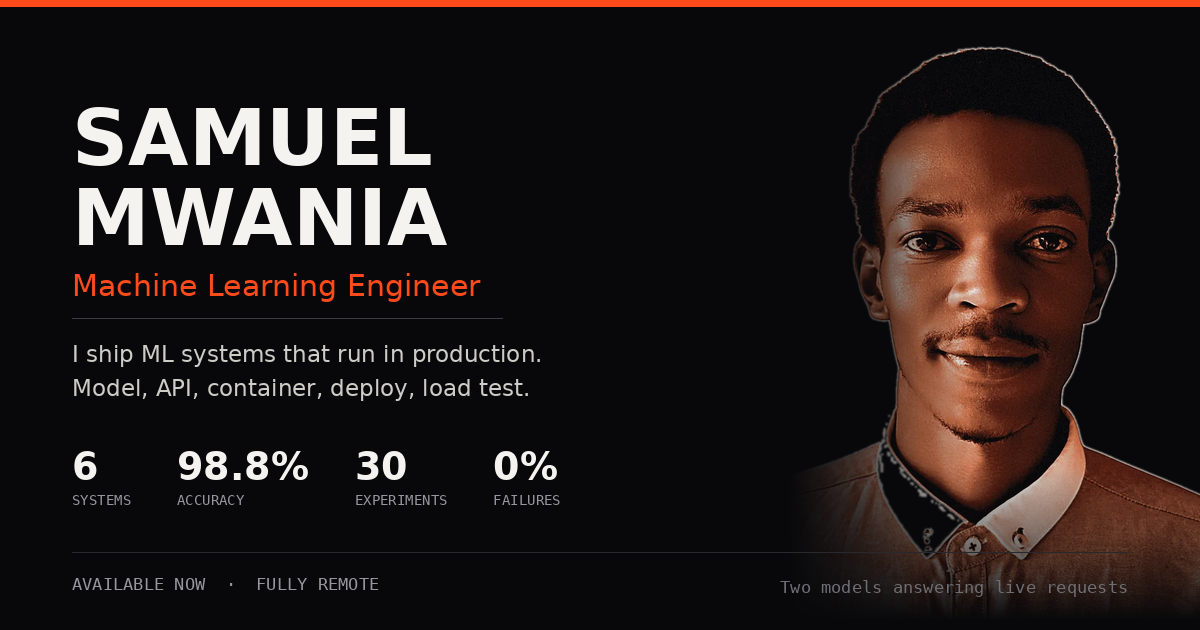
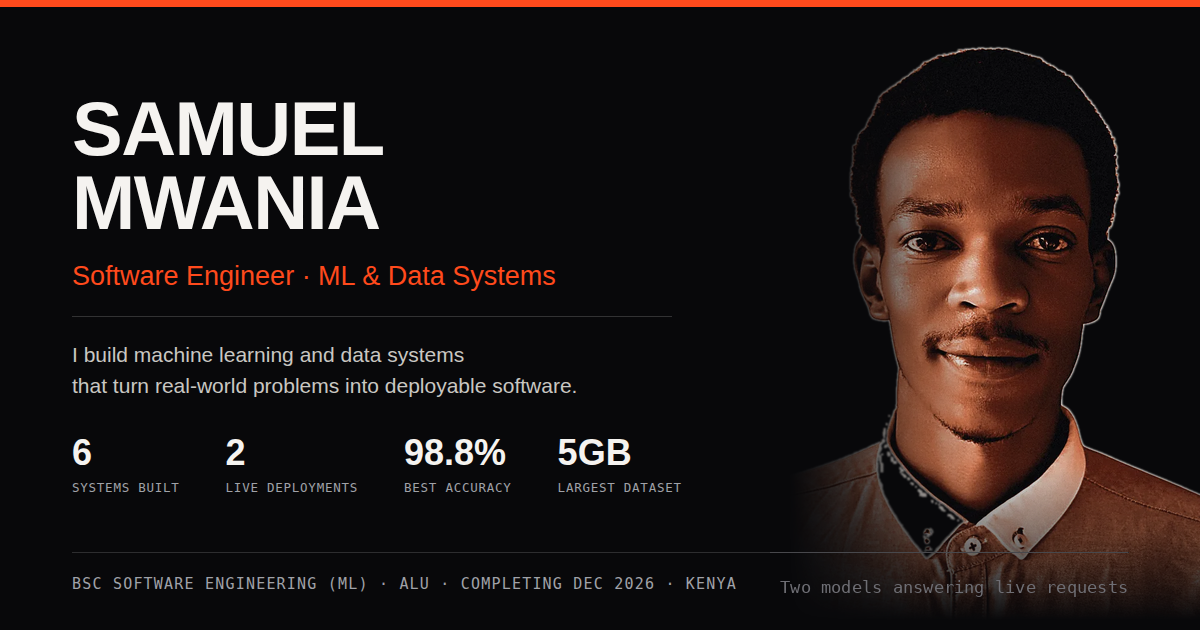
Capstone research details, degree dates and social preview
Research section follows the capstone proposal. ALU dates set to January 2024 to December 2026, graduation ceremony June 2027, full-time availability from January 2027. Social preview image updated.

diff --git a/index.html b/index.html
@@ -22,7 +22,7 @@
 <meta property="og:image:alt" content="Samuel Mwania, Software Engineer, Machine Learning and Data Systems">
 <meta name="twitter:image" content="https://www.mwaaniasam.com/og-image.png">
 <link rel="canonical" href="https://www.mwaaniasam.com/">
-<meta name="description" content="Samuel Mwania. Software engineer specialising in machine learning and data systems. BSc Software Engineering (Machine Learning), African Leadership University, graduating November 2026. Six systems built, two answering live requests in production. Based in Kenya.">
+<meta name="description" content="Samuel Mwania. Software engineer specialising in machine learning and data systems. BSc Software Engineering (Machine Learning), African Leadership University, completing December 2026. Six systems built, two answering live requests in production. Based in Kenya.">
 <link rel="preconnect" href="https://fonts.googleapis.com">
 <link rel="preconnect" href="https://fonts.gstatic.com" crossorigin>
 <link href="https://fonts.googleapis.com/css2?family=Archivo:wght@400;500;600;700;800&family=JetBrains+Mono:wght@400;500&display=swap" rel="stylesheet">
@@ -411,7 +411,7 @@ footer{border-top:1px solid var(--line);padding:30px 0 44px;display:flex;justify
 <div class="wrap hero" id="top">
   <div>
     <div class="eyebrow reveal">
-      <span class="status"><span class="sq"></span><span class="lbl" style="color:var(--accent)">Graduating Nov 2026 &middot; Open to opportunities</span></span>
+      <span class="status"><span class="sq"></span><span class="lbl" style="color:var(--accent)">Completing Dec 2026 &middot; Open to opportunities</span></span>
       <span class="lbl">Internships &middot; Graduate roles &middot; Research &middot; Full-time</span>
     </div>
     <h1 class="nm" id="bigname"><span class="ln"><span>Samuel</span></span><span class="ln"><span>Mwania</span></span></h1>
@@ -421,8 +421,8 @@ footer{border-top:1px solid var(--line);padding:30px 0 44px;display:flex;justify
     </div>
     <p class="lede reveal">I ship machine learning systems that run in production. I build machine learning and data systems that turn real-world problems into deployable software: model, API, container, deployment, load test, retraining path. Six built, two answering live requests right now, and you can call one of them from this page.</p>
     <ul class="facts reveal">
-      <li>BSc Software Engineering (Machine Learning) &middot; African Leadership University &middot; Graduating November 2026</li>
-      <li>Available for internships and project-based work now &middot; Full-time from December 2026</li>
+      <li>BSc Software Engineering (Machine Learning) &middot; African Leadership University &middot; Completing December 2026 &middot; Graduation June 2027</li>
+      <li>Available for internships and project-based work now &middot; Full-time from January 2027</li>
       <li>Based in Kenya &middot; Building AI, data and software systems for African and global problems</li>
     </ul>
     <div class="cta reveal">
@@ -496,7 +496,7 @@ footer{border-top:1px solid var(--line);padding:30px 0 44px;display:flex;justify
       <p class="body">I am a software engineer specialising in machine learning and data systems. I take a problem from raw data through to a running service: training, evaluation against a named baseline, an API with real validation, a container that behaves identically on any machine, a deployment, load testing, and a retraining path so the model does not quietly decay.</p>
       <p class="body"><strong style="color:var(--text)">Evidence over claims.</strong> Every project below links to its source code and documentation, every model is reported against a stated baseline, and two projects link to a live deployment you can call yourself. Nothing on this page is a claim you have to take on faith.</p>
       <p class="body">My work spans machine learning, backend engineering, data engineering and production systems. My current research applies graph methods to Kenyan public procurement data, and I am most interested in problems where software meets financial systems, public institutions and development.</p>
-      <p class="body">I am finishing a BSc in Software Engineering with a machine learning specialisation at African Leadership University, graduating in November 2026. I am open to internships, graduate roles, research opportunities, contract work and full-time roles. I am available for internships and project-based work now, and for full-time employment from December 2026. I am based in Kenya, work remotely, and am open to international relocation and employer-sponsored opportunities where available.</p>
+      <p class="body">I am finishing a BSc in Software Engineering with a machine learning specialisation at African Leadership University. I complete the degree in December 2026, and the graduation ceremony is in June 2027. I am open to internships, graduate roles, research opportunities, contract work and full-time roles. I am available for internships and project-based work now, and for full-time employment from January 2027. I am based in Kenya, work remotely, and am open to international relocation and employer-sponsored opportunities where available.</p>
 
       <div class="prin">
         <div><span class="ix">01</span><h5>I measure against a baseline</h5><p>A metric with nothing to compare it to is decoration. Every model here is scored against a stated alternative, so the number means something.</p></div>
@@ -525,17 +525,22 @@ footer{border-top:1px solid var(--line);padding:30px 0 44px;display:flex;justify
       <p class="body">The same discipline runs through the engineering work: state the question, name the baseline, report what the evidence supports, and write down what it does not.</p>
 
       <div class="rcard reveal" style="margin-top:30px">
-        <span class="rstat">In progress &middot; Capstone 2026</span>
-        <h3>Detecting Concealed Supplier Relationships in Kenyan Public Procurement</h3>
+        <span class="rstat">In progress &middot; Capstone, Sept &ndash; Nov 2026</span>
+        <h3>Uncovering Hidden Supplier Links in Kenyan Public Procurement: A Graph-Based Machine Learning Approach</h3>
         <div class="lbl">Research project &middot; Graph Machine Learning &middot; Kenya</div>
         <dl class="case" style="margin:22px 0 0">
-          <dt>Problem</dt><dd>Relationships between suppliers, such as shared ownership, are often not visible in procurement records viewed one tender at a time.</dd>
-          <dt>Question</dt><dd>Can a graph representation of procurement and ownership data surface supplier relationships that tabular analysis misses?</dd>
-          <dt>Approach</dt><dd>Graph construction, entity resolution and graph representation learning, evaluated against simpler baselines and against how the output would fit a professional review workflow.</dd>
-          <dt>Status</dt><dd>Proposal stage. Data, graph construction, models, evaluation, results and limitations will be published here as the work is done, including anything that does not work.</dd>
+          <dt>Problem</dt><dd>Supplier screening compares a bidder's registered name against published debarment and sanctions lists. It fails when a debarred party returns through a related company with an unrelated name. In 2021 the African Development Bank debarred a Kenyan firm alongside five affiliates whose names shared nothing with the parent; they were found only by tracing common officers, and a name check would have passed all five.</dd>
+          <dt>Questions</dt><dd>Can relational structure in public procurement and ownership records identify supplier exposure that name-based screening does not detect? Do learned graph representations, mostly validated on synthetic data, stay effective on a real Kenyan graph, and if not, which properties of the data explain why? How do Kenyan compliance and procurement professionals judge the accuracy, interpretability and workflow fit of the approach?</dd>
+          <dt>Data</dt><dd>Public records only: PPRA contract awards and published beneficial ownership of awarded entities, World Bank and AfDB debarment listings, OpenSanctions, the ICIJ Offshore Leaks and adjudicated EACC cases. The portal held 109,163 awards to 79,870 suppliers by August 2026. Unproven allegations are excluded.</dd>
+          <dt>Method</dt><dd>A graph linking companies, people, awards and adverse records, built with entity resolution whose precision is measured on at least 200 manually adjudicated pairs. A graph attention network scores the neighbourhood around each bidding entity, using ego identifiers, reverse message passing and port numbering.</dd>
+          <dt>Baselines</dt><dd>A deterministic baseline, conventional machine learning on tabular features, and engineered graph features with a tree ensemble as the principal comparison, so the value of learned representations is measured, not assumed.</dd>
+          <dt>Evaluation</dt><dd>Entity-disjoint splits, with the edge that defines each label removed before scoring so the model cannot read the answer. Ten random seeds with confidence intervals, an ablation over each architectural component, and permutation testing against at least 10,000 label shuffles. Ranking metrics suited to rare positives: ROC AUC, average precision and recall at a low false positive rate. Accuracy is not used. Twelve to fifteen semi-structured interviews with Kenyan compliance and procurement professionals.</dd>
+          <dt>System</dt><dd>AegisVeritas, a web screening application: bidder and supplier-list screening, ownership path tracing, the factors behind every assessment, and a tamper-evident audit trail of analyst decisions. No decision is automated.</dd>
+          <dt>Status</dt><dd>Proposal complete. Results, including the conditions under which the approach does not work, will be published here when the evaluation is done.</dd>
+          <dt class="why">Why it matters</dt><dd class="why">No published work applies graph representation learning to ownership and directorship graphs to detect debarment circumvention, or evaluates such methods on African procurement data. The result is informative either way.</dd>
         </dl>
         <div class="chips">
-          <span class="pill">Graph ML</span><span class="pill">Entity resolution</span><span class="pill">Neo4j</span><span class="pill">Risk analytics</span><span class="pill">Public sector</span>
+          <span class="pill">Graph attention networks</span><span class="pill">Entity resolution</span><span class="pill">Beneficial ownership</span><span class="pill">Procurement integrity</span><span class="pill">Design science</span>
         </div>
       </div>
 
@@ -555,7 +560,7 @@ footer{border-top:1px solid var(--line);padding:30px 0 44px;display:flex;justify
       <div><div class="lbl" style="color:var(--accent)">Backend &amp; APIs</div><ul><li><i></i>FastAPI, Pydantic</li><li><i></i>Flask</li><li><i></i>REST API design</li><li><i></i>NextAuth</li><li><i></i>LLM integration (Gemini)</li></ul></div>
       <div><div class="lbl" style="color:var(--accent)">ML Systems</div><ul><li><i></i>Docker, Docker Compose</li><li><i></i>CUDA, GPU training</li><li><i></i>Model serving</li><li><i></i>Load testing, Locust</li><li><i></i>Deployment, Render</li></ul></div>
       <div><div class="lbl" style="color:var(--accent)">Engineering</div><ul><li><i></i>Linux</li><li><i></i>Git</li><li><i></i>TypeScript, Next.js, React</li><li><i></i>Flutter, Dart</li><li><i></i>Streamlit</li></ul></div>
-      <div><div class="lbl" style="color:var(--accent)">Graph &amp; AI</div><ul><li><i></i>Neo4j</li><li><i></i>Graph machine learning</li><li><i></i>Entity resolution</li></ul><div class="wip">In progress through capstone research</div></div>
+      <div><div class="lbl" style="color:var(--accent)">Graph &amp; AI</div><ul><li><i></i>Neo4j</li><li><i></i>Graph neural networks (GAT)</li><li><i></i>Entity resolution</li><li><i></i>Permutation testing, ablation</li></ul><div class="wip">In progress through capstone research</div></div>
     </div>
   </div>
 </section>
@@ -565,12 +570,12 @@ footer{border-top:1px solid var(--line);padding:30px 0 44px;display:flex;justify
     <div class="shead"><h2>Experience</h2><div class="lbl">Education, research and contributions</div></div>
     <div class="xp">
       <div class="xrow reveal">
-        <div><div class="yr">2023 &ndash; 2026</div><div class="lbl" style="margin-top:6px">Education</div></div>
-        <div><h4>African Leadership University</h4><p>BSc Software Engineering, Machine Learning specialisation. Graduating November 2026.</p></div>
+        <div><div class="yr">Jan 2024 &ndash; Dec 2026</div><div class="lbl" style="margin-top:6px">Education</div></div>
+        <div><h4>African Leadership University</h4><p>BSc Software Engineering, Machine Learning specialisation. Graduation ceremony June 2027.</p></div>
       </div>
       <div class="xrow reveal">
-        <div><div class="yr">2026</div><div class="lbl" style="margin-top:6px">Research &middot; Capstone</div></div>
-        <div><h4>Concealed supplier relationships in Kenyan public procurement</h4><p>Graph machine learning, entity resolution and public procurement data. In progress. <a href="#research">Read more</a></p></div>
+        <div><div class="yr">Sept &ndash; Nov 2026</div><div class="lbl" style="margin-top:6px">Research &middot; Capstone</div></div>
+        <div><h4>Uncovering hidden supplier links in Kenyan public procurement</h4><p>Graph attention networks on a Kenyan ownership, directorship and contract award graph, delivered through AegisVeritas, a screening application with an audit trail. Evaluated against engineered-feature baselines and through interviews with compliance professionals. In progress. <a href="#research">Read more</a></p></div>
       </div>
       <div class="xrow reveal">
         <div><div class="yr">2025 &ndash; 2026</div><div class="lbl" style="margin-top:6px">Team engineering</div></div>
@@ -594,7 +599,7 @@ footer{border-top:1px solid var(--line);padding:30px 0 44px;display:flex;justify
         <p class="tdesc">Open to internships, graduate positions, research roles and full-time engineering positions in machine learning, data, backend and ML systems.</p>
         <ul class="tlist">
           <li>Internships and project-based work: available now</li>
-          <li>Full-time: from December 2026</li>
+          <li>Full-time: from January 2027</li>
           <li>Remote, or relocating where employer-sponsored opportunities are available</li>
         </ul>
         <div style="display:flex;gap:12px;flex-wrap:wrap;margin-top:auto;padding-top:6px">
